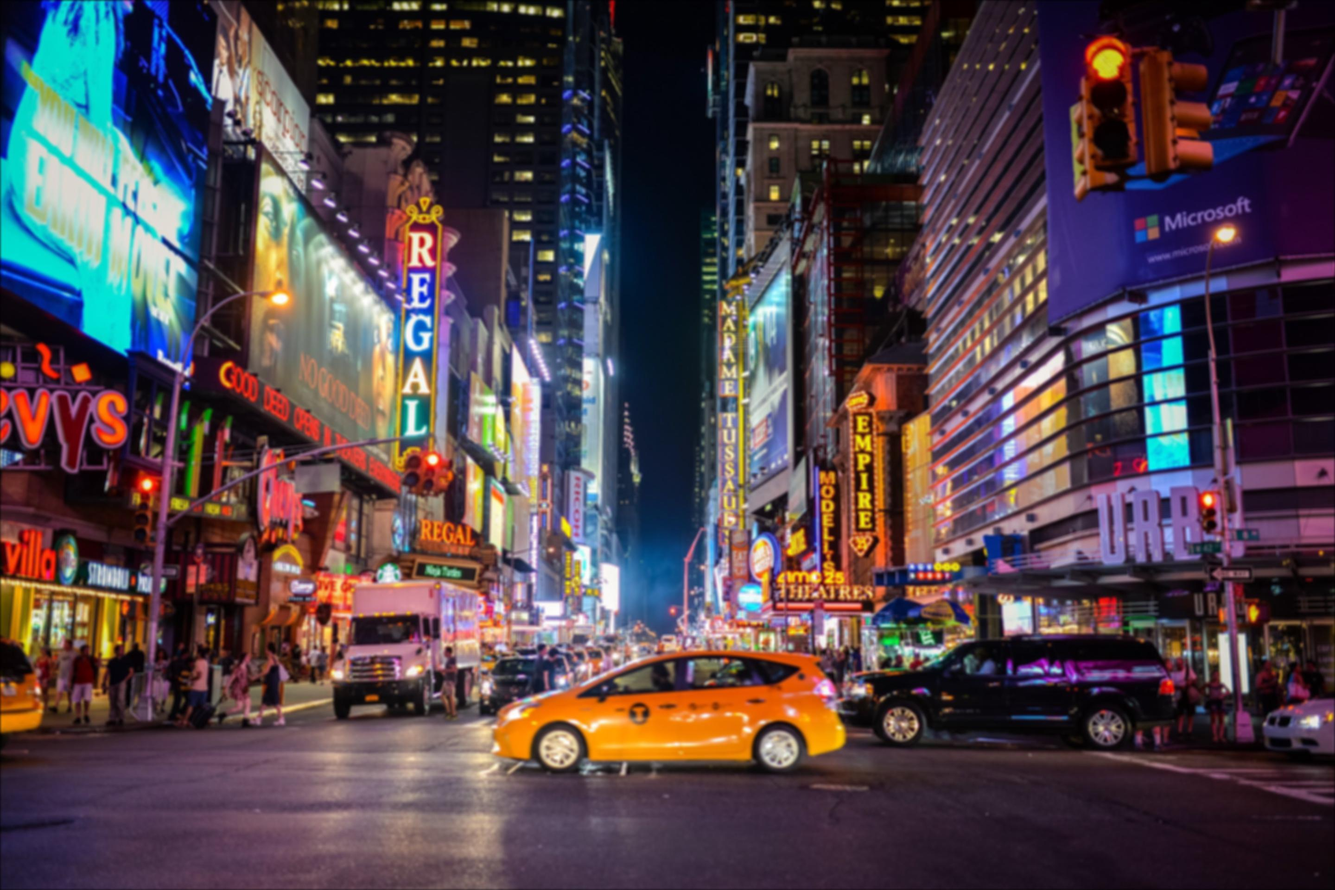
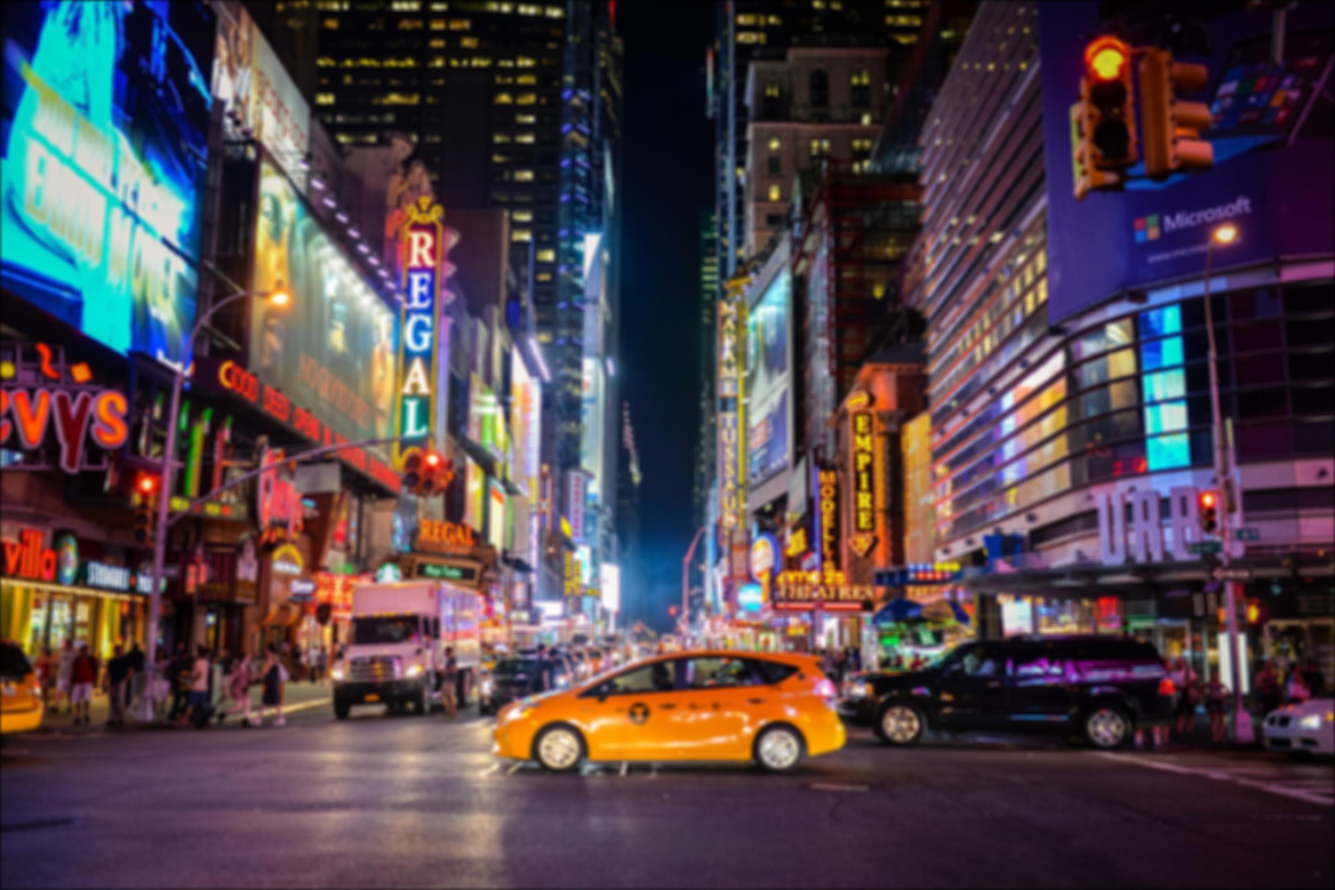
Go routine fait

diff --git a/main-concurrence.go b/main-concurrence.go
@@ -1,0 +1,124 @@
+package main
+
+import (
+	"image"
+	"image/color"
+	"image/jpeg"
+	_ "image/jpeg" // Important pour décoder JPEG
+	_ "image/png"  // Pour PNG, au cas où
+	"log"
+	"math"
+	"os"
+	"sync"
+)
+
+// Génère un noyau gaussien 2D
+func generateGaussianKernel(size int, sigma float64) [][]float64 {
+	kernel := make([][]float64, size)
+	sum := 0.0
+	mid := size / 2
+
+	for i := 0; i < size; i++ {
+		kernel[i] = make([]float64, size)
+		for j := 0; j < size; j++ {
+			x, y := float64(-i+mid), float64(-j+mid)
+			value := (1 / (2 * math.Pi * sigma * sigma)) * math.Exp(-(x*x+y*y)/(2*sigma*sigma))
+			kernel[i][j] = value
+			sum += value
+		}
+	}
+
+	// Normalisation
+	for i := 0; i < size; i++ {
+		for j := 0; j < size; j++ {
+			kernel[i][j] /= sum
+		}
+	}
+
+	return kernel
+}
+
+// Applique un noyau gaussien à une ligne de pixels
+func applyGaussianBlurToRow(img image.Image, kernel [][]float64, y int, bounds image.Rectangle, blurred *image.RGBA, wg *sync.WaitGroup) {
+	defer wg.Done() // Indiquer que cette goroutine est terminée
+
+	kSize := len(kernel)
+	kMid := kSize / 2
+
+	for x := bounds.Min.X; x < bounds.Max.X; x++ {
+		var rSum, gSum, bSum float64
+
+		for ky := 0; ky < kSize; ky++ {
+			for kx := 0; kx < kSize; kx++ {
+				offsetX := x + kx - kMid
+				offsetY := y + ky - kMid
+
+				// Vérifier si les coordonnées sont valides
+				if offsetX < bounds.Min.X || offsetX >= bounds.Max.X || offsetY < bounds.Min.Y || offsetY >= bounds.Max.Y {
+					continue
+				}
+
+				r, g, b, _ := img.At(offsetX, offsetY).RGBA()
+				weight := kernel[ky][kx]
+
+				rSum += weight * float64(r)
+				gSum += weight * float64(g)
+				bSum += weight * float64(b)
+			}
+		}
+
+		// Définir la nouvelle couleur du pixel
+		blurred.Set(x, y, color.RGBA{
+			R: uint8(rSum / 256),
+			G: uint8(gSum / 256),
+			B: uint8(bSum / 256),
+			A: 255,
+		})
+	}
+}
+
+func main() {
+	// Ouvre l'image d'entrée
+	file, err := os.Open("images/newYork.jpg")
+	if err != nil {
+		log.Fatalf("Erreur ouverture fichier : %v", err)
+	}
+	defer file.Close()
+
+	img, _, err := image.Decode(file)
+	if err != nil {
+		log.Fatalf("Erreur décodage image : %v", err)
+	}
+
+	// Génère un noyau gaussien large
+	kernel := generateGaussianKernel(10, 5.0) // Taille 15x15, sigma = 5.0
+
+	bounds := img.Bounds()
+	blurred := image.NewRGBA(bounds)
+
+	// Création d'un WaitGroup pour attendre que toutes les goroutines finissent
+	var wg sync.WaitGroup
+
+	// Lancer une goroutine pour chaque ligne de pixels
+	for y := bounds.Min.Y; y < bounds.Max.Y; y++ {
+		wg.Add(1)
+		go applyGaussianBlurToRow(img, kernel, y, bounds, blurred, &wg)
+	}
+
+	// Attendre que toutes les goroutines aient terminé
+	wg.Wait()
+
+	// Sauvegarde l'image floutée
+	outFile, err := os.Create("images/newYorkApresFlou-c-10-5.jpg")
+	if err != nil {
+		log.Fatalf("Erreur création fichier sortie : %v", err)
+	}
+	defer outFile.Close()
+
+	err = jpeg.Encode(outFile, blurred, nil)
+	if err != nil {
+		log.Fatalf("Erreur encodage image sortie : %v", err)
+	}
+
+	log.Println("Flou gaussien appliqué et image sauvegardée dans output.jpg")
+}

diff --git a/main.go b/main.go
@@ -92,13 +92,13 @@ func main() {
 	}
 
 	// Génère un noyau gaussien large
-	kernel := generateGaussianKernel(10, 3.0) // Taille 15x15, sigma = 5.0
+	kernel := generateGaussianKernel(10, 5.0) // Taille 15x15, sigma = 5.0
 
 	// Applique le flou gaussien
 	blurredImg := applyGaussianBlur(img, kernel)
 
 	// Sauvegarde l'image floutée
-	outFile, err := os.Create("images/newYorkApresFlou-10-3.jpg")
+	outFile, err := os.Create("images/newYorkApresFlou-10-5.jpg")
 	if err != nil {
 		log.Fatalf("Erreur création fichier sortie : %v", err)
 	}
